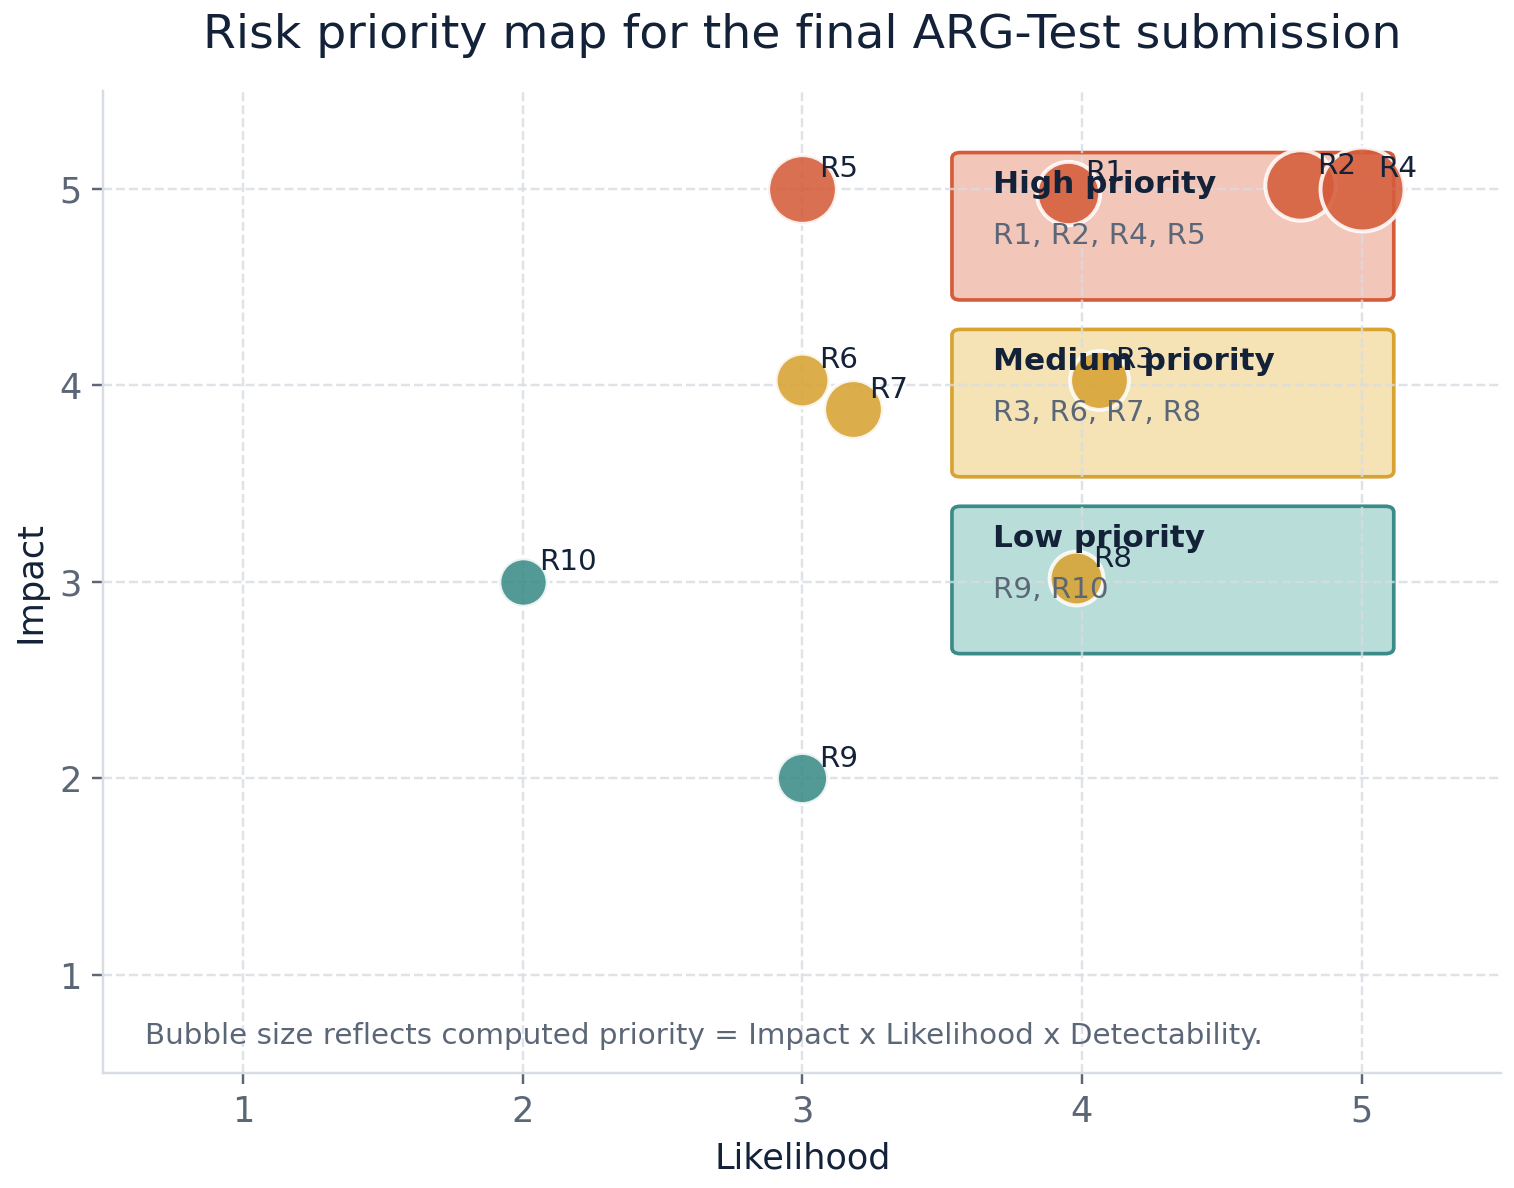
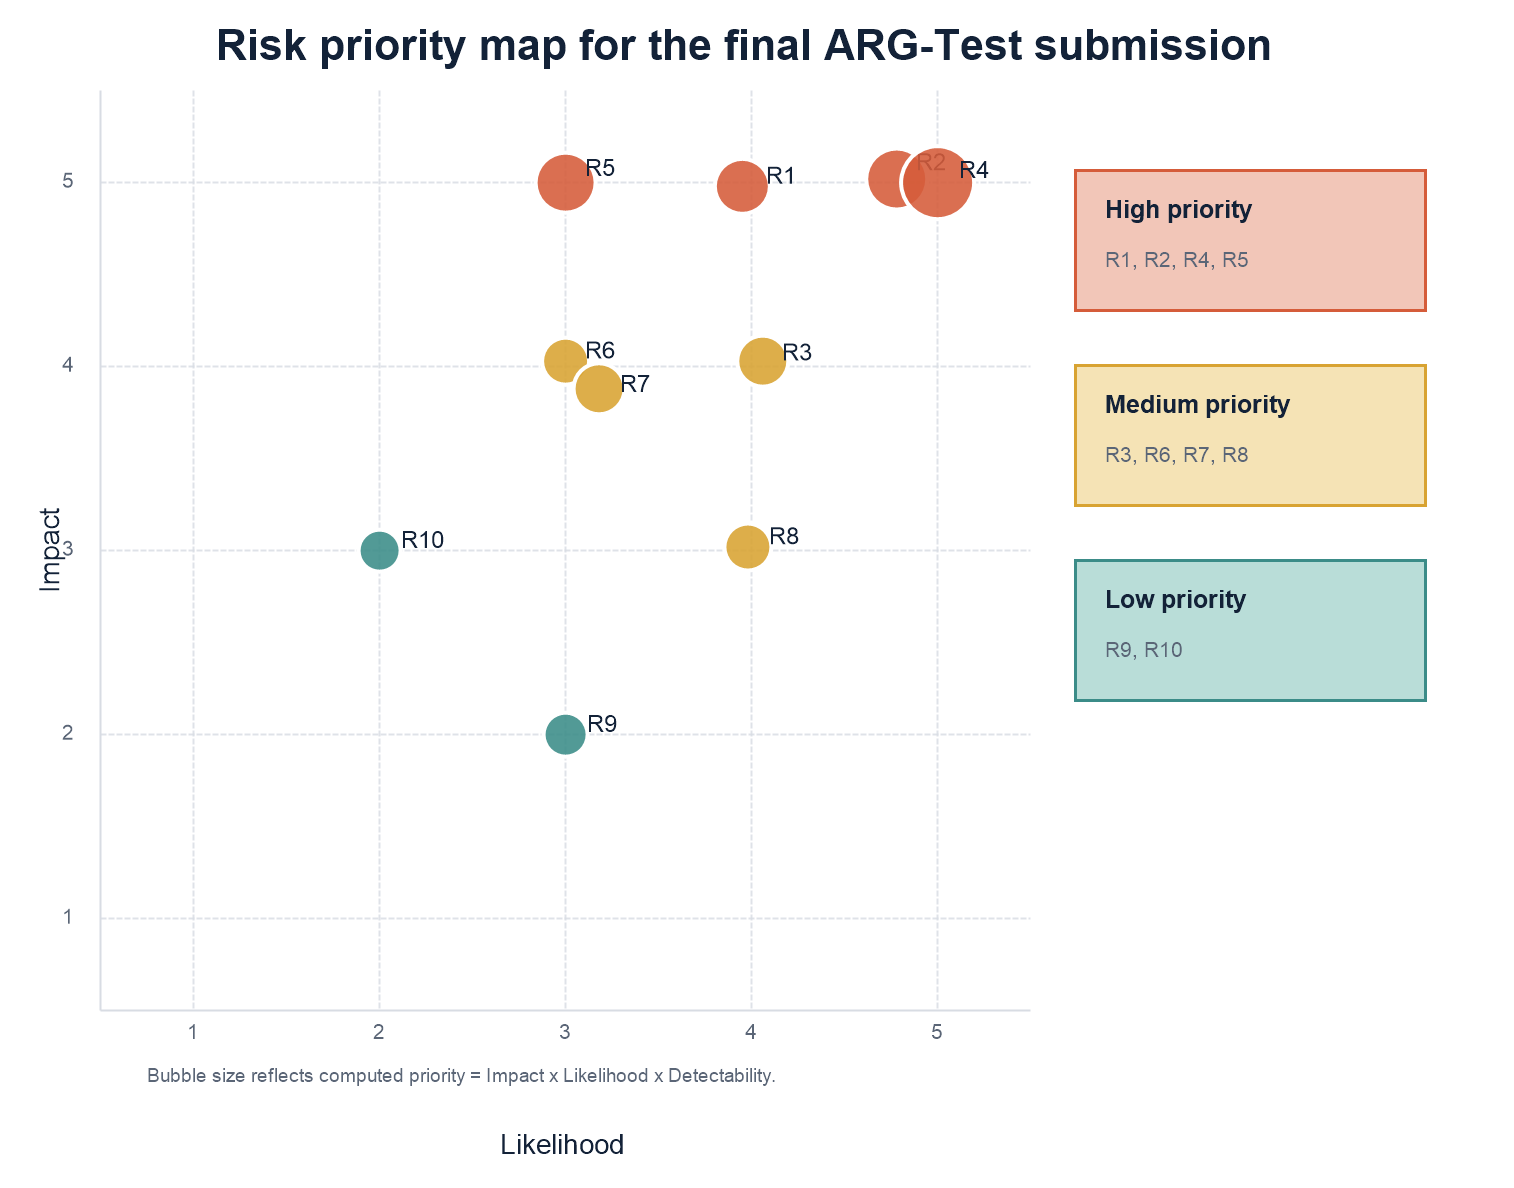
Update risk analysis report and heatmap layout

diff --git a/experiments/generate_final_doc_figures.py b/experiments/generate_final_doc_figures.py
@@ -84,7 +84,11 @@ def risk_color(priority: int) -> str:
 
 def save_risk_heatmap(output_path: Path) -> None:
     configure()
-    fig, ax = plt.subplots(figsize=(8.2, 5.8), dpi=220)
+    fig = plt.figure(figsize=(9.4, 5.8), dpi=220)
+    ax = fig.add_axes([0.08, 0.12, 0.62, 0.78])
+    legend_ax = fig.add_axes([0.74, 0.20, 0.22, 0.60])
+    legend_ax.set_axis_off()
+
     ax.set_xlim(0.5, 5.5)
     ax.set_ylim(0.5, 5.5)
     ax.set_xticks(range(1, 6))
@@ -128,23 +132,31 @@ def save_risk_heatmap(output_path: Path) -> None:
             zorder=4,
         )
 
-    ax.add_patch(FancyBboxPatch((3.55, 4.45), 1.55, 0.72, boxstyle="round,pad=0.015,rounding_size=0.03", facecolor=PALETTE["red_soft"], edgecolor=PALETTE["red"], linewidth=1.2))
-    ax.text(3.68, 4.98, "High priority", fontsize=10.2, fontweight="bold", color=PALETTE["ink"])
-    ax.text(3.68, 4.72, "R1, R2, R4, R5", fontsize=9.6, color=PALETTE["muted"])
+    legend_specs = [
+        ("High priority", "R1, R2, R4, R5", PALETTE["red_soft"], PALETTE["red"], 0.72),
+        ("Medium priority", "R3, R6, R7, R8", PALETTE["gold_soft"], PALETTE["gold"], 0.40),
+        ("Low priority", "R9, R10", PALETTE["teal_soft"], PALETTE["teal"], 0.08),
+    ]
+    for title, items, fill, edge, y0 in legend_specs:
+        legend_ax.add_patch(
+            FancyBboxPatch(
+                (0.02, y0),
+                0.96,
+                0.22,
+                boxstyle="round,pad=0.015,rounding_size=0.03",
+                facecolor=fill,
+                edgecolor=edge,
+                linewidth=1.2,
+                transform=legend_ax.transAxes,
+            )
+        )
+        legend_ax.text(0.16, y0 + 0.14, title, fontsize=10.2, fontweight="bold", color=PALETTE["ink"], transform=legend_ax.transAxes)
+        legend_ax.text(0.16, y0 + 0.06, items, fontsize=9.5, color=PALETTE["muted"], transform=legend_ax.transAxes)
 
-    ax.add_patch(FancyBboxPatch((3.55, 3.55), 1.55, 0.72, boxstyle="round,pad=0.015,rounding_size=0.03", facecolor=PALETTE["gold_soft"], edgecolor=PALETTE["gold"], linewidth=1.2))
-    ax.text(3.68, 4.08, "Medium priority", fontsize=10.2, fontweight="bold", color=PALETTE["ink"])
-    ax.text(3.68, 3.82, "R3, R6, R7, R8", fontsize=9.4, color=PALETTE["muted"])
-
-    ax.add_patch(FancyBboxPatch((3.55, 2.65), 1.55, 0.72, boxstyle="round,pad=0.015,rounding_size=0.03", facecolor=PALETTE["teal_soft"], edgecolor=PALETTE["teal"], linewidth=1.2))
-    ax.text(3.68, 3.18, "Low priority", fontsize=10.2, fontweight="bold", color=PALETTE["ink"])
-    ax.text(3.68, 2.92, "R9, R10", fontsize=9.6, color=PALETTE["muted"])
-
-    ax.text(
-        0.03,
-        0.03,
+    fig.text(
+        0.08,
+        0.04,
         "Bubble size reflects computed priority = Impact x Likelihood x Detectability.",
-        transform=ax.transAxes,
         fontsize=9.6,
         color=PALETTE["muted"],
     )

diff --git a/final_docs/risk_analysis_report/02_risk_analysis_report_cn.md b/final_docs/risk_analysis_report/02_risk_analysis_report_cn.md
@@ -1,23 +1,31 @@
 # Risk Analysis Report
 
-## 1. Purpose and Scope
+## 1. Purpose and Shared Premise
 
-This document analyzes the main delivery and quality risks of the final `ARG-Test` submission. The scope covers:
+This report is not a generic project-management risk list. It is a requirement-driven risk analysis for the final `ARG-Test` submission, centered on `FR/NFR compliance`, evidence traceability, and defense-time interpretability under the course-provided `Requirement_Specification.md`.
 
-- the AI-driven AutoTestDesign tool itself
-- the frozen formal result bundle used by the final report
-- the independent final documents and evidence package
-- the demo and presentation readiness of the submission
+The shared team wording for the final phase is:
 
-The goal is not only to enumerate risks, but also to show which risks were already controlled during the final upgrade and which residual risks still need to be stated honestly in the submission.
+`Our final project is implemented and validated against the provided Requirement Specification of the AutoTestDesign AI App.`
 
-## 2. Risk Scoring Method
+Accordingly, the scope of this report covers:
 
-Each risk is evaluated with three 1-to-5 dimensions:
+- the requirement-driven `AutoTestDesign AI App` itself
+- the canonical formal result source and its mirrored evidence
+- the independent `final_docs/` package
+- `demo_web/`, the demo package, and presentation/defense interpretation risks
 
-- `Impact`: how much the risk would damage correctness, defensibility, or grading outcome
-- `Likelihood`: how likely the risk is to occur in the current repository and evidence state
-- `Detectability`: how hard it is to detect the risk before submission
+At this stage, the main risks are no longer “the core system does not exist.” They are now about whether the finished functionality, boundaries, and evidence are explained accurately, consistently, and defensibly.
+
+## 2. Risk Scoring Method and Evidence Sources
+
+### 2.1 Risk Scoring Method
+
+Each risk is evaluated with three `1-5` dimensions:
+
+- `Impact`: how much the risk would damage compliance, defensibility, or grading outcome
+- `Likelihood`: how likely the risk is to occur given the current repository and document state
+- `Detectability`: how difficult it is for the team to catch and correct the risk before submission
 
 The final priority score is:
 
@@ -29,116 +37,168 @@ Priority bands used in this report:
 - `Medium`: `36-59`
 - `Low`: `<= 35`
 
-## 3. Priority Overview
+### 2.2 Approved Evidence Sources
+
+This report relies only on final-phase approved evidence sources:
+
+- requirement baseline: `Requirement_Specification.md`
+- canonical result root: `.local_runs/formal_qwen_novpn`
+- repository-traceable mirrors: `report_assets/final_latex_report/` and `report_assets/final_demo_package/frontend_focus/formal_results_snapshot/`
+- code and execution evidence: `src/`, `demo_web/`, `tests/`, `reference_impl/`, and `final_docs/execution_evidence/`
+- final document and submission-process evidence: `final_docs/` and `report_assets/final_demo_package/`
+
+### 2.3 Unified Final Numbers
+
+Whenever the report, PPT, demo, or defense uses quantitative results, the team must use the following final numbers:
+
+- dataset split: `dev = 50`, `test = 16`
+- full pipeline: `avg checker score = 0.959`, `avg overall coverage = 0.615`, `avg test count = 7.312`
+- baselines: Rule-based `0.753 / 0.147 / 4.125`; Plain LLM `0.844 / 0.030 / 7.250`; Structured No Checker `0.841 / 0.538 / 6.312`
+- detailed executable evidence: `15 module tests passed`; `27 repo tests passed`; `100% statement coverage`; `100% branch coverage`; `4 / 4 mutants killed`
+
+These numbers are grounded in `report_assets/final_latex_report/main.tex`, `final_docs/execution_evidence/`, and the formal demo snapshot, and must not be replaced by mock outputs or legacy repository leftovers.
+
+## 3. Requirement-Specification Coverage View
+
+The table below makes the framing explicit: the risks in this report are tied to `FR 1.0 ~ FR 7.0` and `NFR 4.1 ~ NFR 4.4`, not to arbitrary project commentary.
+
+| Requirement | Current implementation or evidence closure | Related risks |
+| --- | --- | --- |
+| `FR 1.0` Input / Parsing | Supports requirement files, `run-text`, and `batch-csv`; see `src/main.py`, `src/input_loader.py`, and `extended_feature_smoke_summary.md`. | `R1`, `R6` |
+| `FR 1.1` Requirement Structuring | Structured parsing is implemented through `src/parser.py`, `src/schemas.py`, and the structured trace format. | `R1`, `R2` |
+| `FR 2.0` Risk Analysis & Prioritization | `src/risk.py` produces requirement-level `risk_assessment` plus case-level priority promotion. | `R1`, `R2` |
+| `FR 3.0` Black-Box Test Design | Covers `EP`, `BVA`, `Decision Table`, and `State Transition`, with baseline, ablation, and final comparison evidence. | `R1`, `R2` |
+| `FR 4.0` White-Box Test Modeling | In the final scope, this is realized as state-model extraction plus `All States` and `All Transitions` planning, with `coupon_discount_engine` providing executable white-box evidence. | `R3` |
+| `FR 5.0` Test Oracle Generation | Final tables explicitly include `Expected Output`; repair, export, and execution evidence all depend on expected-result synthesis. | `R3`, `R6` |
+| `FR 6.0` Output & Export | Supports `Markdown / JSON / CSV` export; see `src/exporter.py` and the formal output directories. | `R1`, `R6`, `R7` |
+| `FR 7.0` Test Suite Optimization | Multi-candidate reranking, repair, and priority-aware refinement are implemented. | `R1`, `R2` |
+| `NFR 4.1` Performance | Mock/local-path performance has been validated, but live runtime remains provider-latency-bound. | `R5` |
+| `NFR 4.2` Usability / UI / Traceability | The primary workflow is still CLI plus artifact-based execution, supplemented by the `demo_web/` FastAPI UI shell. | `R4`, `R6`, `R8` |
+| `NFR 4.3` Security | `.env`-based secret injection, manifests without API keys, and artifact secret scanning are in place. | `R9` |
+| `NFR 4.4` Maintainability and Technology | The modular Python repo, architecture figure, README, final docs, and demo package together support this requirement. | `R6`, `R10` |
+
+## 4. Priority Overview
 
 ![Risk Priority Heatmap](figures/risk_priority_heatmap.png)
 
-Figure 1 is useful because it makes the project posture immediately visible. The current high-priority risks are no longer "missing functionality" risks; they are mostly evidence, consistency, and interpretation risks. This is a good sign for a final project because it means the technical system is already substantially complete and the remaining work is about making the submission defensible.
+Figure 1 shows the current final-submission posture clearly. The high-priority risks are concentrated around `Requirement coverage exposition`, `claim interpretation`, `UI boundary`, and `performance wording`, not around complete absence of functionality. That is the expected posture of a technically completed course project entering its final submission phase.
 
-## 4. Risk Register
+## 5. Risk Register
 
-| Risk ID | Risk statement | Impact | Likelihood | Detectability | Priority | Band | Current status | Main mitigation | Evidence / owner |
-| --- | --- | ---: | ---: | ---: | ---: | --- | --- | --- | --- |
-| R1 | Final showcase examples could still contain overly templated wording or weak expected-result phrasing. | 5 | 4 | 3 | 60 | High | Controlled | Manually review final showcase cases and keep `coupon_discount_engine` as the anchor example. | Final report case-study sections and exported suites |
-| R2 | `checker_score` and `overall_coverage` could be misinterpreted if the report explains only one of them. | 5 | 4 | 4 | 80 | High | Controlled | Always report both metrics together and explain why they measure different qualities. | Main comparison table and ablation discussion |
-| R3 | Workflow/state requirements may generalize less consistently than rule-oriented requirements. | 4 | 4 | 3 | 48 | Medium | Residual but acceptable | Keep category-level generalization, add state-model evidence, and discuss the boundary honestly. | Generalization section and state-model exports |
-| R4 | The final package could be challenged for lacking executable white-box evidence. | 5 | 5 | 5 | 125 | High | Closed | Add a reference implementation, executable `pytest` suite, branch/statement coverage, and mutation evidence. | `reference_impl/`, `tests/`, coverage XML, mutation demo |
-| R5 | The report could cite non-canonical or mock-only results instead of the approved formal result source. | 5 | 3 | 5 | 75 | High | Controlled | Freeze a single formal result root and reference it consistently across report and figures. | `.local_runs/formal_qwen_novpn` manifests and summaries |
-| R6 | Independent documents could drift away from each other in terminology, scope, or selected evidence. | 4 | 3 | 3 | 36 | Medium | Controlled | Reuse the same selected module, architecture, result source, and metric definitions across all documents. | `final_docs/` package |
-| R7 | Evidence may exist in the repository but be difficult to locate during presentation or Q&A. | 4 | 3 | 4 | 48 | Medium | Controlled | Organize evidence under `final_docs/execution_evidence/` and keep a single source map in the final package. | `05_evidence_and_submission_checklist_cn.md` |
-| R8 | Schedule and cost estimation could look generic and weaken the professionalism of the test plan. | 3 | 4 | 3 | 36 | Medium | Controlled | Use concrete phases, named responsibilities, and person-day estimates instead of template wording. | Final test plan |
-| R9 | Repository entry points and document references could become inconsistent after the final upgrade. | 2 | 3 | 5 | 30 | Low | Controlled | Keep `README`, `final_docs`, and report references synchronized. | Root `README.md` and `final_docs/README.md` |
-| R10 | Reviewers could confuse frozen middle-phase artifacts with final deliverables. | 3 | 2 | 4 | 24 | Low | Controlled | Isolate historical materials under `frozen_middle/` and cite final assets from current paths only. | `frozen_middle/README.md` and final package structure |
+| Risk ID | Requirement anchor | Risk statement | Impact | Likelihood | Detectability | Priority | Band | Current status | Main mitigation and evidence |
+| --- | --- | --- | ---: | ---: | ---: | ---: | --- | --- | --- |
+| `R1` | `FR 1.0 ~ FR 7.0` | The repository already covers input, parsing, risk scoring, black-box design, state modeling, export, and optimization, but if the documents do not explicitly map these capabilities to the `Requirement Specification`, reviewers may misread the project as “just generating a few test cases.” | 5 | 4 | 3 | 60 | High | Controlled | Use explicit FR-coverage mapping in the risk report and test plan; rely on `src/main.py`, `src/risk.py`, `src/state_model.py`, `src/exporter.py`, `final_docs/10_feature_closure_status_cn.md`, and `extended_feature_smoke_summary.md`. |
+| `R2` | `FR 2.0`, `FR 3.0`, `FR 7.0` | If `checker_score`, `overall_coverage`, baseline meaning, and gold-spec usage are not explained precisely, reviewers may misinterpret them as “score equals correctness,” “the model was trained on the dataset,” or “the rule-based baseline comes from an external paper system.” | 5 | 5 | 4 | 100 | High | Controlled | Always report `0.959 / 0.615 / 7.312` together with the baselines; explicitly state that `checker_score != correctness` and that the `gold spec` is an evaluation rubric, not training data; see `report_assets/final_latex_report/main.tex` and `final_demo_script_cn.md`. |
+| `R3` | `FR 4.0`, `FR 5.0` | The title of `FR 4.0` can be misread as requiring full source-code-level white-box automation, and `coupon_discount_engine` may be misread as the main system itself rather than an executable usefulness anchor. | 4 | 4 | 3 | 48 | Medium | Residual but defendable | In the detailed document, explicitly separate “AutoTestDesign app feature under validation” from “selected executable validation module”; see `src/state_model.py`, `final_docs/detailed_test_design_execution/04_detailed_test_design_execution_cn.md`, and `coupon_discount_engine_execution_summary.md`. |
+| `R4` | `NFR 4.2.1` | The specification requires a clean and intuitive UI. If we pretend the project already has a polished standalone web application, we overclaim. If we do not explain the UI at all, reviewers may ask “where is the app?” | 5 | 5 | 5 | 125 | High | Controlled with boundary | The correct wording is that the main workflow remains a CLI-centered prototype, while the final deliverable adds the `demo_web/` lightweight FastAPI UI shell for direct text, CSV, state-model, and formal-dashboard demonstration; see `demo_web/app.py`, `demo_web/README.md`, and `tests/test_demo_web_api.py`. |
+| `R5` | `NFR 4.1.1`, `NFR 4.1.2` | If we directly claim full compliance with “100 requirements within 5 seconds” or “full test generation within 2 seconds,” the statement becomes misleading because live latency depends on the provider. | 5 | 3 | 5 | 75 | High | Residual and accepted | Split the performance claim into two layers: mock/local processing is fast, while live latency remains provider-bound; see `final_docs/09_nfr_validation_report_cn.md` and `nfr_validation_summary.md`, which record a local sample average of `0.005 s / requirement`. |
+| `R6` | `NFR 4.2.2`, `NFR 4.4.3` | If requirement IDs, techniques, risk levels, architecture, usage guidance, and evidence paths are not kept in stable alignment, the package may look “rich in materials but poor in traceability.” | 4 | 3 | 3 | 36 | Medium | Controlled | Keep wording and paths synchronized across `README.md`, `final_docs/README.md`, `05_evidence_and_submission_checklist_cn.md`, and `report_assets/final_demo_package/`; manifests and structured exports preserve traceability on the output side. |
+| `R7` | formal result source policy | If the team mixes legacy `outputs/reports/test` leftovers, mock screenshots, or exploratory runs, the authority of the final numbers will be weakened. | 4 | 3 | 4 | 48 | Medium | Controlled | Anchor the official wording to `.local_runs/formal_qwen_novpn`; use `report_assets/final_demo_package/frontend_focus/formal_results_snapshot/` and `report_assets/final_latex_report/` as repository mirrors; see `upgrade_pipeline_verification_summary.md` and `demo_web/app.py`. |
+| `R8` | demo / presentation interpretation | The demo uses `mock` for stable recording. If the explanation is weak, reviewers may misread it as the final live benchmark or as proof of full provider determinism. | 3 | 4 | 3 | 36 | Medium | Controlled | The demo script explicitly requires the wording “mock is for stable interaction, frozen formal result represents final quality”; see `report_assets/final_demo_package/demo_handoff_cn.md` and `final_demo_script_cn.md`. |
+| `R9` | `NFR 4.3.1` | If `.env`, token screenshots, or terminal history with secrets enter the submission package, that creates a low-frequency but embarrassing security issue. | 2 | 3 | 4 | 24 | Low | Controlled | Secrets are injected through environment variables; manifests do not record API keys; artifact and report directories have been secret-scanned; see `09_nfr_validation_report_cn.md` and `nfr_validation_summary.md`. |
+| `R10` | `NFR 4.4.1`, `NFR 4.4.2`, `NFR 4.4.3` | If the project does not present its modern stack, modular architecture, automated tests, and documentation assets as one coherent chain, its maintainability and technology choices may be undervalued. | 3 | 2 | 5 | 30 | Low | Controlled | Use the layered structure of `src/ / experiments/ / tests/ / final_docs/ / demo_web/`, the `27 passed` regression state, the architecture figure, the README, and the demo package together to support `NFR 4.4`. |
 
-## 5. High-Priority Risk Analysis
+## 6. High-Priority Risk Analysis
 
-### R2. Metric interpretation risk
+### 6.1 `R1`: FR Coverage Exposition Risk
 
-This is a genuine grading risk because a reviewer could ask why a method with a high checker score does not automatically imply maximal coverage. The final submission already addresses this well:
+This is not a “missing feature” problem. It is a “finished features may still look unfinished if they are not explained against the requirement map” problem. The repository already supports:
 
-- the main comparison reports `checker_score`, `overall_coverage`, and `test_count` together
-- the ablation section now uses the same numbers as the main comparison table
-- the final report explicitly explains that the checker measures contract consistency, while coverage measures obligation breadth
+- `FR 1.0`: `run`, `run-text`, `batch-csv`
+- `FR 2.0`: risk scoring and priority promotion
+- `FR 3.0`: `EP / BVA / Decision Table / State Transition`
+- `FR 4.0`: state-model extraction, `All States`, and `All Transitions`
+- `FR 5.0`: `Expected Output` synthesis
+- `FR 6.0`: `Markdown / JSON / CSV` export
+- `FR 7.0`: reranking, repair, and prioritization
 
-Residual action:
+The mitigation is therefore not to rebuild functionality, but to keep every final document aligned with the FR structure.
 
-- keep this explanation consistent in the PPT and demo script
+### 6.2 `R2`: Metric and Comparison Interpretation Risk
 
-### R4. Missing executable white-box evidence
+This is one of the most likely defense-time risks. The safest explanation is:
 
-This was the most serious technical gap after the middle phase, and it is now closed. The project includes:
+- `checker_score` measures contract consistency, not final correctness
+- `overall_coverage` measures gold-spec obligation coverage and complements `checker_score`
+- the `rule-based baseline` is our own deterministic heuristic non-AI baseline
+- the `gold spec` is a manually derived evaluation rubric, not training data
 
-- `reference_impl/coupon_discount_engine.py`
-- `tests/test_coupon_discount_engine_blackbox.py`
-- `tests/test_coupon_discount_engine_whitebox.py`
-- `100%` statement coverage
-- `100%` branch coverage
-- a `4/4` mutant kill demonstration
+If these statements stay consistent across the risk report, PPT, and demo script, `R2` remains a controllable interpretation risk rather than a technical flaw.
 
-Residual action:
+### 6.3 `R4`: UI Boundary Risk
 
-- none beyond keeping the cited evidence paths stable
+`NFR 4.2.1` is one of the most sensitive non-functional items in this final project. The most accurate wording is:
 
-### R5. Non-canonical result citation
+- the primary workflow is still `CLI + artifact-based workflow`
+- the final defense package adds the `demo_web/` lightweight web UI backed by FastAPI
+- it already supports direct text input, CSV import, a formal-result dashboard, and state-model generation
+- it is a prototype-grade interface, not a large polished product frontend
 
-This risk matters because final projects often lose credibility when numbers are copied from exploratory runs, mock outputs, or inconsistent reruns. The project now avoids that failure mode by using a single canonical formal result root for the report:
+This wording avoids both extremes: denying the UI entirely and overclaiming a mature web product.
 
-- `.local_runs/formal_qwen_novpn`
+### 6.4 `R5`: Performance Claim Risk
 
-Residual action:
+The performance section must not be written as if the project already satisfies an industrial live end-to-end SLA. The defensible conclusion is:
 
-- do not introduce any new report table or PPT number that is not traceable to this formal root or to the dedicated execution evidence files
+- the local/mock path is fast enough for course-project validation and demonstration
+- actual live runtime is mainly constrained by provider latency
+- the final evaluation emphasizes functionality, coverage, usefulness, and evidence-backed validation
 
-### R1. Showcase realism
+This is more honest and more technically correct than simply repeating the hard numbers from the specification without qualification.
 
-Even strong pipelines can look weak if the two or three demo examples are phrased poorly. This is why showcase realism remains a high-priority delivery risk. The mitigation is already practical:
+## 7. Medium-Priority Risks and Accepted Boundaries
 
-- anchor the detailed execution on `coupon_discount_engine`
-- keep one strong input-validation example
-- keep one strong workflow/state example
-- manually inspect only the final showcased examples rather than attempting to hand-polish the full dataset
+### 7.1 `R3`: Interpreting `FR 4.0` and the Executable Module Correctly
 
-## 6. Medium-Priority Risks and Accepted Boundaries
+This boundary should not be hidden; it should be explained clearly:
 
-The remaining medium-priority risks should be managed by explicit wording rather than by pretending they do not exist.
+- `state-model extraction` is the direct `AutoTestDesign app` implementation for `FR 4.0`
+- `coupon_discount_engine` is not the whole system
+- its role is to show that the generated or curated test design can be translated into concrete black-box and white-box execution evidence
 
-### R3. Workflow/state generalization
+The supporting hard evidence is already strong:
 
-This is a methodological boundary, not a project failure. The correct final stance is:
+- `15 passed`
+- `27 passed`
+- `100% statement coverage`
+- `100% branch coverage`
+- `4 / 4 mutants killed`
 
-- the workflow/state category is covered
-- state-model extraction and sequence planning are implemented
-- the category still deserves an honest "limitations" note
+### 7.2 `R6` and `R7`: Traceability and Canonical Result-Source Risk
 
-### R6 and R7. Cross-document consistency and evidence discoverability
+These two risks share the same root problem: the project has many materials, but it must maintain only one official final wording. The submission should therefore follow this discipline:
 
-These are final-package engineering risks. They are best controlled by a single submission discipline:
+- the requirement source is always `Requirement_Specification.md`
+- official numbers are always anchored to `.local_runs/formal_qwen_novpn`
+- repository figures, the demo dashboard, and the LaTeX report are mirrors or re-presentations of that official source
+- legacy `outputs/reports/test` snapshots must not be cited as final evidence
 
-- same architecture figure across report and test plan
-- same selected module across risk report, test plan, detailed execution, and final report
-- same evidence filenames across all documents
+### 7.3 `R8`: Demo and Defense Misinterpretation Risk
 
-### R8. Generic schedule and cost language
+The demo only needs to prove three things:
 
-This risk can reduce the perceived professionalism of the final package even when the technical work is strong. The solution is simple and already adopted in the revised test plan:
+- the tool truly runs
+- the outputs are truly structured
+- the final project truly has formal results and executable evidence
 
-- named responsibilities
-- explicit phases
-- person-day estimates
-- concrete exit criteria
+It is not a live benchmark, and it is not a provider-determinism demonstration. If that explanation remains intact, the risk stays manageable.
 
-## 7. Residual Risks Accepted in the Final Submission
+## 8. Honest Boundaries That Should Remain Visible
 
-Some risks should remain visible because hiding them would weaken the credibility of the final project.
+The following points should remain visible in the final submission rather than being polished away:
 
-Accepted residual risks:
+- the current UI is a lightweight web UI plus the original CLI workflow, not a polished standalone product frontend
+- current performance evidence mainly proves that the local/mock path is fast enough; live latency remains provider-bound
+- the project implements a seed-controlled pipeline, repeatability studies, and replay, but it must not claim that the upstream live provider is fully deterministic
+- `checker_score` is not correctness itself, and the `gold spec` is not training data
+- `coupon_discount_engine` is an executable usefulness anchor, not a substitute for the whole AutoTestDesign app
 
-- the live provider is not perfectly deterministic, so strict reproducibility claims must rely on frozen generations plus replay
-- workflow/state requirements are supported, but they remain more sensitive to requirement phrasing than some business-rule cases
-- final showcase examples still benefit from one round of human review before presentation
+Keeping these boundaries explicit strengthens the credibility of the final submission.
 
-These residual risks are acceptable because they are already bounded by evidence, explicitly documented, and do not invalidate the core project claims.
+## 9. Conclusion
 
-## 8. Conclusion
+From a final-submission perspective, the current risk posture of `ARG-Test` is positive. The core `FR` items and main `NFR` items are already supported by implementation and evidence, and the main remaining challenge is not “how to build a new system,” but “how to avoid being misunderstood.”
 
-The final risk posture of `ARG-Test` is strong. The most important risks after the middle phase were not feature ideas but final-delivery risks: missing executable white-box evidence, inconsistent result citation, and weak explanation of evaluation metrics. Those high-priority risks are now either closed or clearly controlled. The remaining risks are presentation- and interpretation-oriented, which is the expected state of a strong course final project near submission.
+The highest-priority risks are concentrated in `FR coverage exposition`, `claim interpretation`, `UI boundary`, and `performance wording`, and each of these already has a clear mitigation path with repository-backed evidence.
+
+Therefore, the conclusion of this report is not that the project is still highly risky. It is that `ARG-Test` has already reached a defensible final state, and that the remaining risks are controllable as long as the team keeps the same requirement-driven explanation framework across the documents, demo, PPT, and defense.